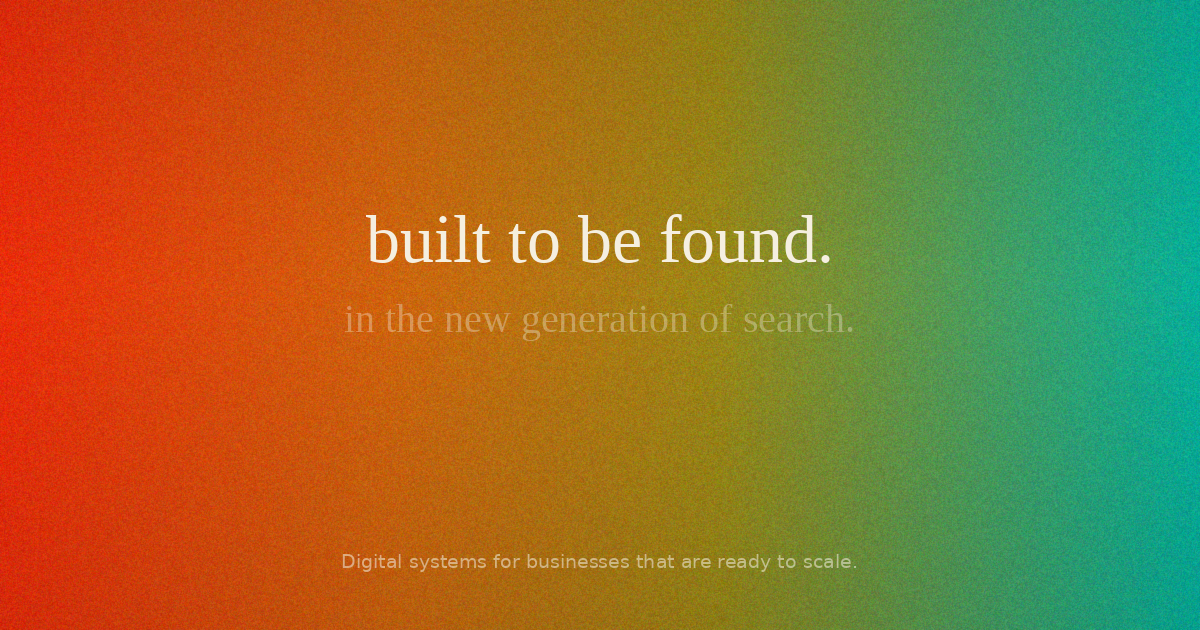
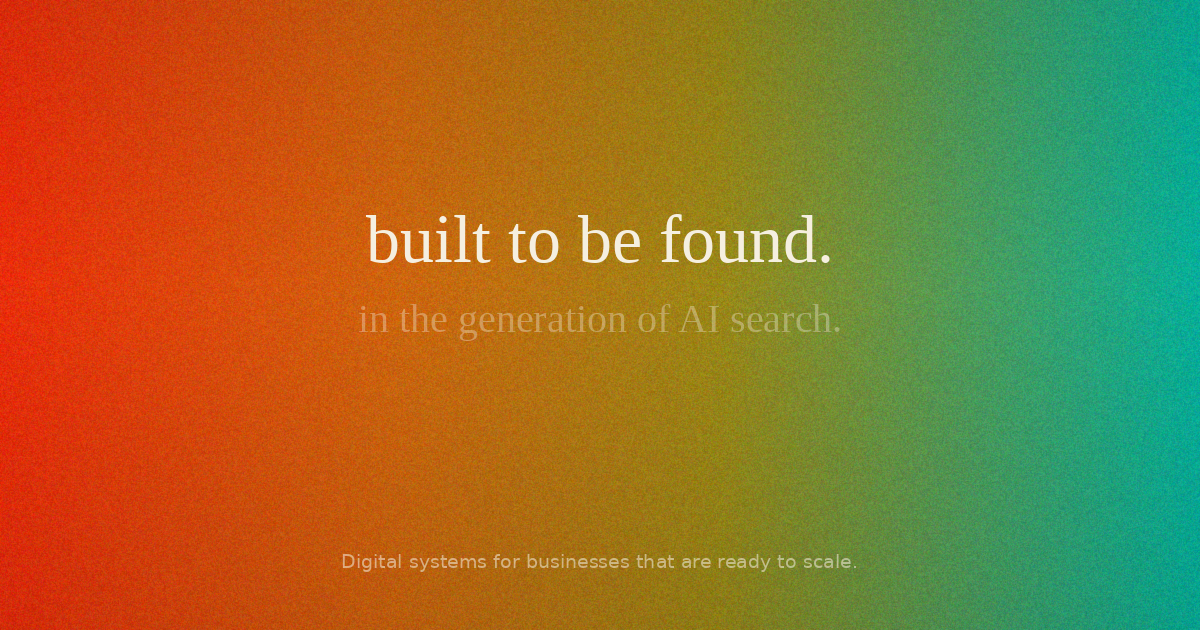
fix bugs

Changed region(s): [[0.2775, 0.4825, 0.7092, 0.5429]]

diff --git a/app/components/TrueFocusHero.tsx b/app/components/TrueFocusHero.tsx
@@ -38,12 +38,12 @@ const EMBER_DRIFT = {
 
 /* ── Segment data ────────────────────────────────────────────── */
 const SEGMENTS = [
-  "built to be found.",
-  <>in the new <br className="tf-mobile-break" />generation of search.</>,
+  "Built to be found.",
+  <>In the generation <br className="tf-mobile-break" />of AI search.</>,
 ];
 
-const ANIMATION_DURATION = 500;
-const PAUSE_BETWEEN = 1800;
+const ANIMATION_DURATION = 900;
+const PAUSE_BETWEEN = 3000;
 
 interface TrueFocusHeroProps {
   /** Only mount the WebGL canvas when the section is active/visible */
@@ -67,7 +67,7 @@ export default function TrueFocusHero({ active = true }: TrueFocusHeroProps) {
     if (!active) return;
     const init = setTimeout(() => {
       cycle();
-    }, 600);
+    }, 1000);
     return () => clearTimeout(init);
   }, [cycle, active]);
 
@@ -125,7 +125,7 @@ export default function TrueFocusHero({ active = true }: TrueFocusHeroProps) {
                     style={{
                       transform: isFocused ? "scaleY(1)" : "scaleY(0)",
                       opacity: isFocused ? 1 : 0,
-                      transitionDelay: isFocused ? "0.1s" : "0s",
+                      transitionDelay: isFocused ? "0.15s" : "0s",
                     }}
                   />
                   <div
@@ -133,7 +133,7 @@ export default function TrueFocusHero({ active = true }: TrueFocusHeroProps) {
                     style={{
                       transform: isFocused ? "scaleX(1)" : "scaleX(0)",
                       opacity: isFocused ? 1 : 0,
-                      transitionDelay: isFocused ? "0.2s" : "0s",
+                      transitionDelay: isFocused ? "0.3s" : "0s",
                     }}
                   />
                   <div
@@ -141,7 +141,7 @@ export default function TrueFocusHero({ active = true }: TrueFocusHeroProps) {
                     style={{
                       transform: isFocused ? "scaleY(1)" : "scaleY(0)",
                       opacity: isFocused ? 1 : 0,
-                      transitionDelay: isFocused ? "0.3s" : "0s",
+                      transitionDelay: isFocused ? "0.45s" : "0s",
                     }}
                   />
                   {(["tl", "tr", "bl", "br"] as const).map((corner) => (
@@ -150,7 +150,7 @@ export default function TrueFocusHero({ active = true }: TrueFocusHeroProps) {
                       className={`tf-corner tf-corner-${corner}`}
                       style={{
                         opacity: isFocused ? 1 : 0,
-                        transitionDelay: isFocused ? "0.35s" : "0s",
+                        transitionDelay: isFocused ? "0.55s" : "0s",
                       }}
                     />
                   ))}

diff --git a/app/layout.tsx b/app/layout.tsx
@@ -31,6 +31,7 @@ const SITE_URL = "https://engeniumlabs.com";
 export const viewport: Viewport = {
   width: "device-width",
   initialScale: 1,
+  viewportFit: "cover",
   themeColor: "#0c0a08",
 };
 
@@ -41,15 +42,15 @@ export const metadata: Metadata = {
     template: "%s | Engenium Labs",
   },
   description:
-    "Strategy, systems, and digital infrastructure engineered to compound. Built to be found — in the new generation of search.",
+    "Strategy, systems, and digital infrastructure engineered to compound. Built to be found — in the generation of AI search.",
   openGraph: {
     type: "website",
     locale: "en_US",
     url: SITE_URL,
     siteName: "Engenium Labs",
-    title: "Engenium Labs — Built to Be Found. In the New Generation of Search.",
+    title: "Engenium Labs — Built to Be Found. In the Generation of AI Search.",
     description:
-      "Strategy, systems, and digital infrastructure engineered to compound. Built to be found — in the new generation of search.",
+      "Strategy, systems, and digital infrastructure engineered to compound. Built to be found — in the generation of AI search.",
     images: [
       {
         url: "/og-image.png",
@@ -61,9 +62,9 @@ export const metadata: Metadata = {
   },
   twitter: {
     card: "summary_large_image",
-    title: "Engenium Labs — Built to Be Found. In the New Generation of Search.",
+    title: "Engenium Labs — Built to Be Found. In the Generation of AI Search.",
     description:
-      "Strategy, systems, and digital infrastructure engineered to compound. Built to be found — in the new generation of search.",
+      "Strategy, systems, and digital infrastructure engineered to compound. Built to be found — in the generation of AI search.",
     images: ["/og-image.png"],
   },
   robots: {

diff --git a/app/components/TrueFocusHero.css b/app/components/TrueFocusHero.css
@@ -120,8 +120,8 @@
   line-height: 1.1;
   letter-spacing: -0.03em;
   color: #f5efe0;
-  transition: filter 0.5s cubic-bezier(0.25, 0.1, 0.25, 1),
-    opacity 0.5s cubic-bezier(0.25, 0.1, 0.25, 1);
+  transition: filter 0.9s cubic-bezier(0.4, 0, 0.2, 1),
+    opacity 0.9s cubic-bezier(0.4, 0, 0.2, 1);
   cursor: default;
   white-space: nowrap;
   text-align: center;
@@ -139,8 +139,8 @@
 .tf-edge {
   position: absolute;
   background: #507e78;
-  transition: transform 0.4s cubic-bezier(0.25, 0.1, 0.25, 1),
-    opacity 0.2s ease;
+  transition: transform 0.6s cubic-bezier(0.4, 0, 0.2, 1),
+    opacity 0.35s ease;
 }
 
 .tf-edge-top {
@@ -177,7 +177,7 @@
   width: 4px;
   height: 4px;
   background: #507e78;
-  transition: opacity 0.3s ease;
+  transition: opacity 0.5s ease;
 }
 .tf-corner-tl { top: -2px; left: -2px; }
 .tf-corner-tr { top: -2px; right: -2px; }
@@ -294,7 +294,7 @@
   .tf-hero {
     padding: 0 1.5rem;
     padding-top: 0;
-    padding-bottom: 0;
+    padding-bottom: calc(2rem + env(safe-area-inset-bottom, 0px));
     justify-content: center;
     align-items: center;
     gap: 0;
@@ -324,7 +324,7 @@
   /* ── CTAs: stack vertically, pinned at bottom ── */
   .tf-cta-row {
     position: absolute;
-    bottom: clamp(2.5rem, 5vh, 4rem);
+    bottom: calc(clamp(5rem, 12vh, 7rem) + env(safe-area-inset-bottom, 0px));
     left: 1.5rem;
     right: 1.5rem;
     margin-top: 0;

diff --git a/app/components/ServiceHub.css b/app/components/ServiceHub.css
@@ -73,7 +73,7 @@
 }
 
 .sh-hero-title {
-  font-family: var(--font-jetbrains), monospace;
+  font-family: var(--font-cormorant), serif;
   font-weight: 300;
   font-size: clamp(2.4rem, 6vw, 4.5rem);
   line-height: 1;
@@ -246,7 +246,7 @@
 .sh-line {
   stroke: var(--verdigris, #507E78);
   stroke-width: 1;
-  opacity: 0.12;
+  opacity: 0.3;
   transition: stroke 0.3s ease, opacity 0.3s ease, stroke-dasharray 0.3s ease;
   stroke-dasharray: 300;
   stroke-dashoffset: 300;
@@ -258,7 +258,7 @@
 
 .sh-line--active {
   stroke: var(--aged-clay, #A86040);
-  opacity: 0.35;
+  opacity: 0.6;
   stroke-dasharray: none;
 }
 

diff --git a/app/components/GradientBlindsHero.tsx b/app/components/GradientBlindsHero.tsx
@@ -451,7 +451,7 @@ export default function GradientBlindsHero({
         <h1
           style={styles.headline}
           dangerouslySetInnerHTML={{
-            __html: `Most businesses aren't in AI answers <span style="color:#507E78">yet.</span><br><em style="font-style:italic;color:#A86040">That's a window.</em>`,
+            __html: `Search just <span style="color:#FFFFFF">changed.</span><br><em style="font-style:italic;color:#A86040">Most businesses haven't.</em>`,
           }}
         />
         <p style={styles.subline}>

diff --git a/app/components/CubesHero.tsx b/app/components/CubesHero.tsx
@@ -626,7 +626,7 @@ export default function CubesHero({ active = true }: CubesHeroProps) {
       {/* Card overlay */}
       <div className="cube-card-glow" style={styles.card}>
         <div style={styles.eyebrow}>
-          Full-stack · integrated · engineered
+          Full-stack · integrated<span className="cb-dot-2"> ·</span> engineered
         </div>
         <h1 style={styles.headline}>
           In the{" "}

diff --git a/app/globals.css b/app/globals.css
@@ -1067,6 +1067,13 @@ html, body {
   animation: cubeCardGlow 6s ease-in-out infinite;
 }
 
+/* Hide 2nd dot on mobile */
+@media (max-width: 1024px) {
+  .cb-dot-2 {
+    display: none;
+  }
+}
+
 
 /* ═══════════════════════════════════════
    PAGE ENTRANCE ANIMATIONS

diff --git a/app/components/Footer.tsx b/app/components/Footer.tsx
@@ -56,7 +56,7 @@ export default function Footer() {
         </Link>
 
         <p className="site-footer__tagline">
-          Built to be found. In the new generation of search.
+          Built to be found. In the generation of AI search.
         </p>
 
         {/* Copyright */}

diff --git a/app/components/MagnetLinesHero.css b/app/components/MagnetLinesHero.css
@@ -32,9 +32,7 @@
   }
 
   .ml-body {
-    font-size: 0.95rem !important;
-    max-width: 34ch !important;
-    text-align: center;
+    display: none;
   }
 
   /* ── Capability tags: tighter, smaller pills ── */
